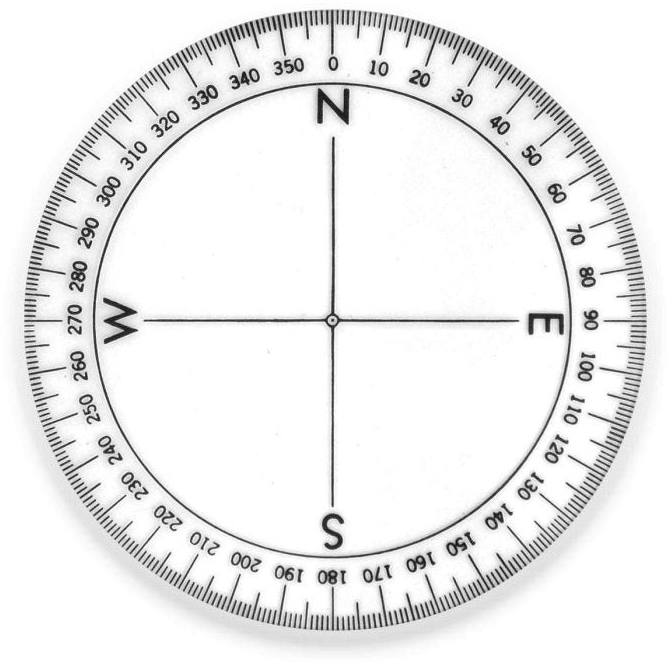
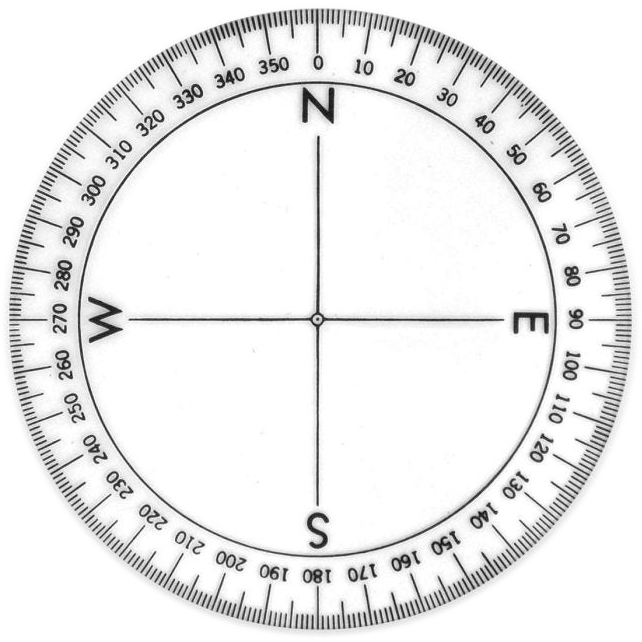
Crop protractor image

Changed region(s): [[0.0, 0.0, 0.9969, 0.9969]]

diff --git a/src/main.rs b/src/main.rs
@@ -1,7 +1,7 @@
 use raylib::prelude::*;
 
-const SCREEN_WIDTH: i32 = 670;
-const SCREEN_HEIGHT: i32 = 646;
+const SCREEN_WIDTH: i32 = 650;
+const SCREEN_HEIGHT: i32 = 650;
 
 fn main() {
     let protractor_png_data = include_bytes!("../resources/protractor.png");
